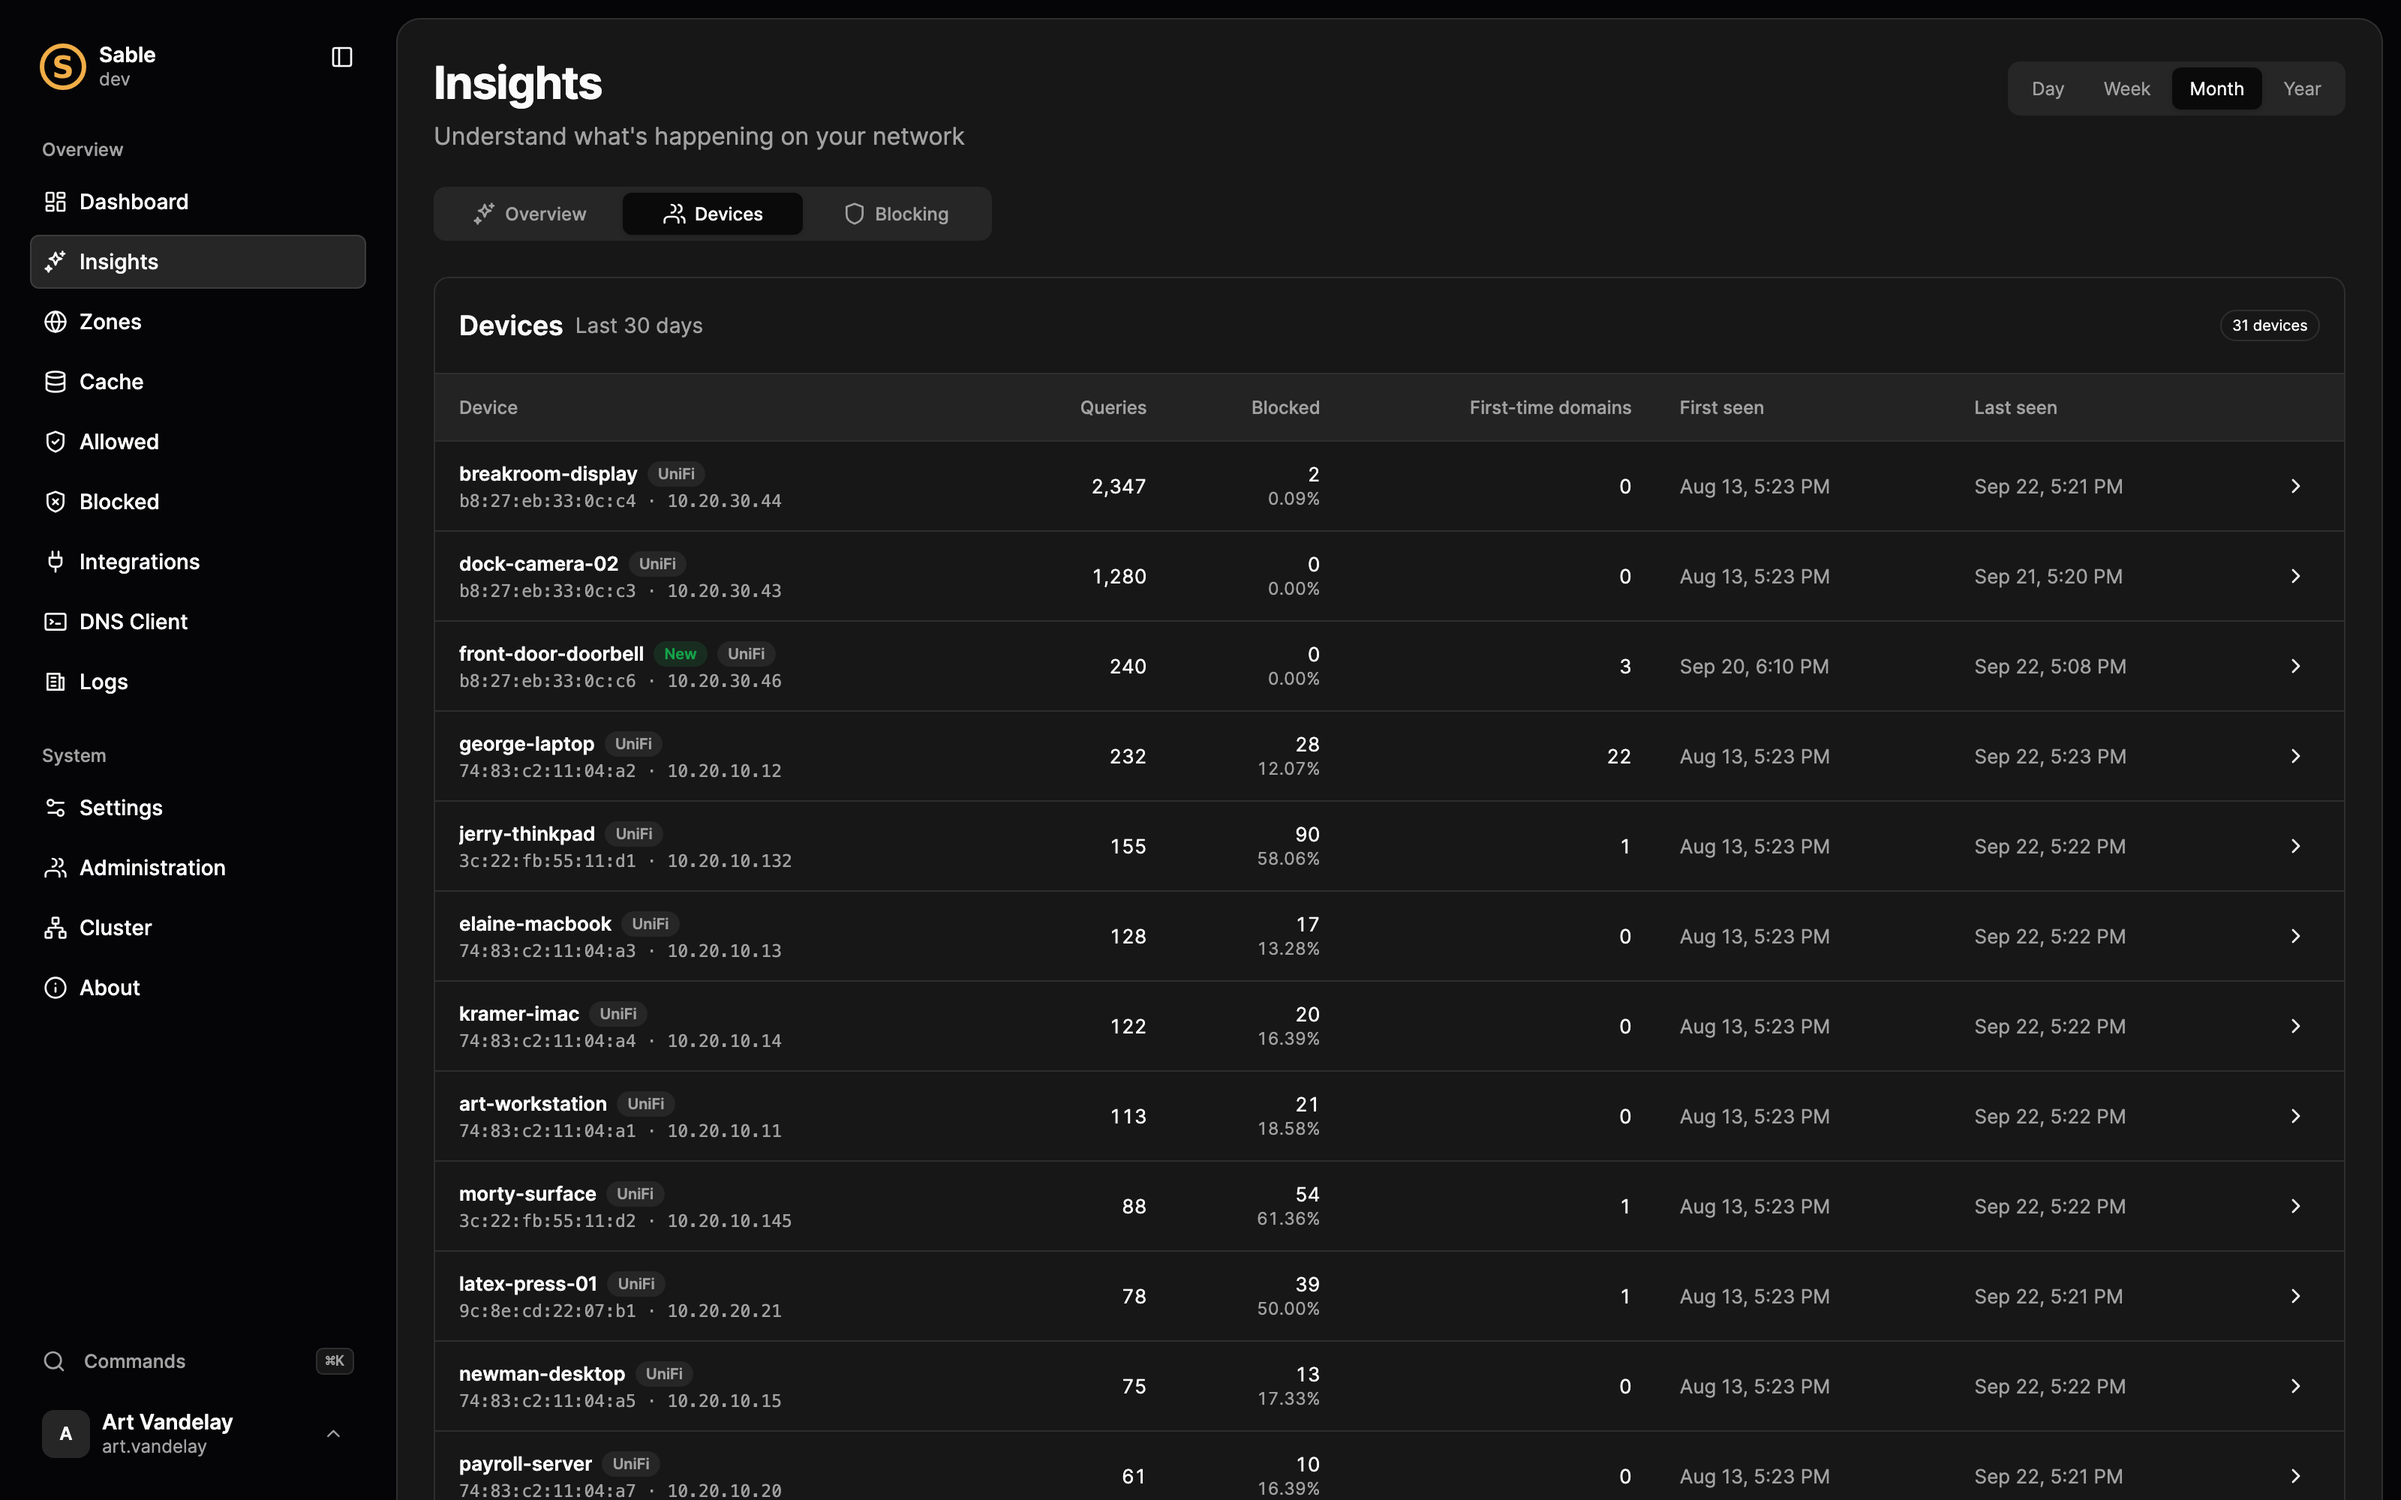
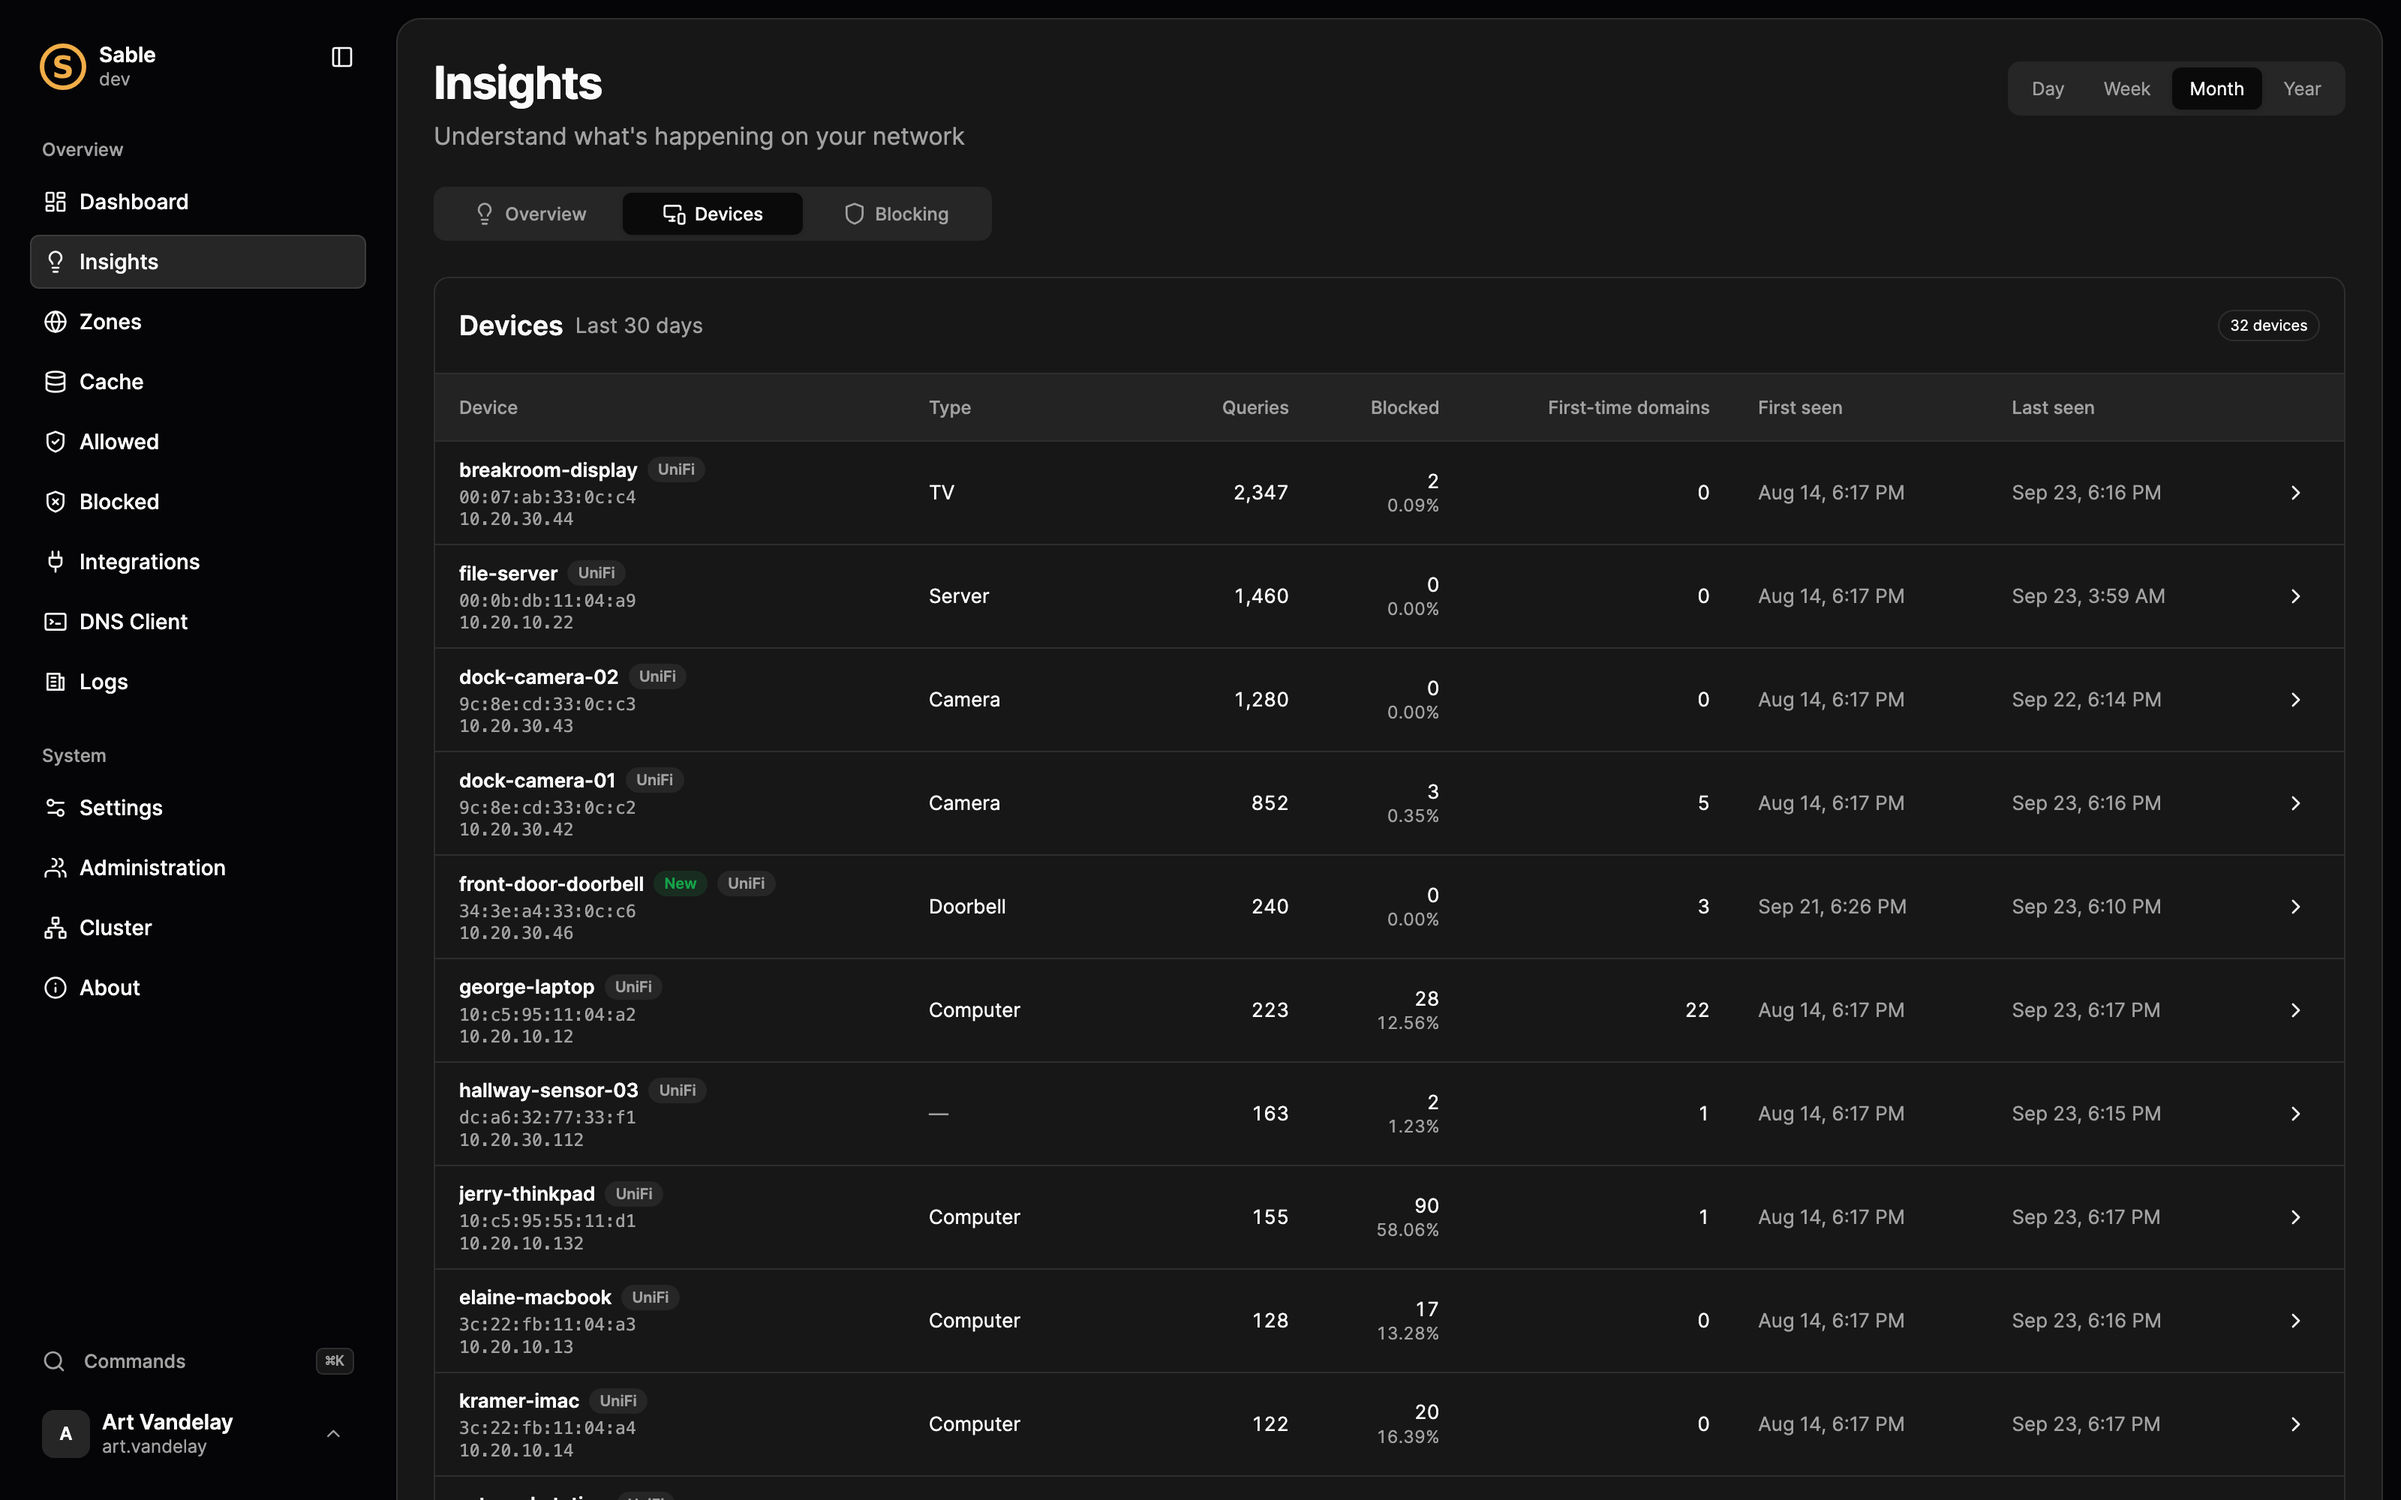
Document Insights and add 1.5.0-beta.1 release notes

diff --git a/docs/guides/insights.md b/docs/guides/insights.md
@@ -1,0 +1,78 @@
+# Understand your network with Insights
+
+Insights reads what Sable already records and tells you what changed, what each device is, and what is worth a look. Every finding shows the evidence behind it and links to the exact queries in the query log, so you never have to take Sable's word for it.
+
+Insights runs entirely on your server. It uses fixed rules and lookup tables, not machine learning or a cloud service, and none of it runs while Sable answers DNS.
+
+## Before you begin
+
+Insights needs query logging, which is on by default. Open **Insights** from the sidebar or the command palette. You need permission to read logs, blocking, or both; each section shows only what you may read.
+
+Right after an upgrade, Sable fills in device history from the query log it already keeps, so Insights knows which devices were already on the network from the first day.
+
+![Insights Overview with the summary sentence, device metrics, and findings](../assets/screenshots/insights.png "The Overview opens with one sentence about what stands out, then the findings behind it.")
+
+## The Overview
+
+The Overview opens with one sentence about what stands out, such as "dock-camera-02 went quiet, breakroom-display is 13× busier than usual, and file-server woke up at 3 AM." Below it are the numbers for the selected range and **Things Worth Your Attention**.
+
+Each finding opens a drawer with fact cards, **Why Sable surfaced this**, what it could mean, and **How Sable decides**. Use **View Query Logs** to see the exact queries it counted.
+
+Insights reports:
+
+- **New device on the network.** A device first seen during the range, while Sable was already watching.
+- **Went quiet** and **Unusually busy.** A device's last day compared with its own average over the week before.
+- **Active at an unusual hour.** A device with a steady daily routine that was busy at an hour it had not used in two weeks.
+- **Talking somewhere new.** An appliance, such as a camera, doorbell, or TV, that started calling services it never used. A laptop doing the same is ordinary and is not reported.
+- **Started using a new app.** A device that began using an app, such as Discord or Zoom, it had not used before.
+- **Checks in on a schedule.** A name only one device looks up, again and again, at a steady interval through the night. This is how a smart device's heartbeat looks, and also how software phoning home looks.
+- **Blocking findings.** Names that were blocked before you allowed them, block lists that stopped updating, and lists that add little of their own.
+
+**Top Apps** and **Busiest Devices** rank the whole network for the selected range.
+
+## Devices
+
+The **Devices** tab lists every device that sent queries in the range. Sable keeps a device's addresses together through the names you give it, UniFi, and the server's neighbor table, so a laptop's IPv4 and changing IPv6 addresses count as one device.
+
+![Insights Devices tab listing devices with their type and traffic](../assets/screenshots/insights-devices.png "Each device shows its name, hardware and IP address, and what Sable thinks it is.")
+
+Open a device to see its maker, apps, busiest domains, and first-time domains.
+
+### Name a device
+
+Use the pencil beside the device's name. A name follows the hardware address when Sable knows it, so it survives IP changes.
+
+### What a device is
+
+Sable names the maker from the device's hardware address and guesses its type from the maker, its name, and the services it talks to. **What it is** shows the guess, how sure Sable is (**Confident**, **Likely**, or **Unsure**), and the clues behind it.
+
+When a guess is wrong, use the pencil beside it and choose the right type. The first choice, marked **(detected)**, hands the decision back to Sable. Your correction is kept against the hardware address, like a name.
+
+Devices with a private, randomized hardware address have no maker, so their type rests on their name and the services they use.
+
+## Hide what you have seen
+
+Every finding's drawer ends with **Seen it?**:
+
+- **Dismiss** hides the finding for a day.
+- **Snooze a Week** hides it for a week.
+- **That's Normal** hides it until you show it again.
+
+Hiding applies to everyone who uses Insights. Hidden findings are listed under the findings card, where **Show Again** brings one back. You need permission to change settings to hide findings.
+
+## Get alerts
+
+Insights can send each new finding worth a look to a webhook. Open the **Alerts** card at the bottom of the Overview, enter the webhook URL, and choose a format:
+
+- **JSON** works with Slack, Discord, Home Assistant, and anything else that takes a JSON POST.
+- **Plain text** works with ntfy, which shows the finding's title and summary as a notification.
+
+Use **Send Test** to check the webhook. Each finding is sent once, and anything you hid is skipped. When you first set a webhook, Sable takes stock of what it already knows without sending it, so you are not flooded with old news. On a cluster, only the primary sends alerts.
+
+You can also set alerts in `sable.toml`; see [Devices and Insights](../configuration.md#devices-and-insights).
+
+## Blocking
+
+The **Blocking** tab shows blocked queries, the clients and domains behind them, and how much each block list contributes that no other list covers.
+
+![Insights Blocking tab with blocked query rankings and block list contribution](../assets/screenshots/insights-blocking.png "Compare what each list adds before removing one.")

diff --git a/CHANGELOG.md b/CHANGELOG.md
@@ -8,6 +8,68 @@ Create a passphrase-sealed application backup before upgrading and keep
 mixed-version cluster windows short. Cross-version restore and downgrade
 compatibility are not yet a published contract.
 
+## [1.5.0-beta.1] - 2026-09-23
+
+Sable 1.5.0-beta.1 introduces Insights: a local view of what changed on your
+network, what each device is, and what is worth a look. Every finding shows
+the evidence behind it and links to the exact queries it counted. Insights uses
+fixed rules and lookup tables on your own server, with no machine learning or
+cloud service, and none of it runs on the DNS request path.
+
+### Insights
+
+- Add an Insights page with Overview, Devices, and Blocking tabs, reachable
+  from the sidebar and the command palette with either logs or blocking read
+  permission.
+- Open the Overview with one sentence about what stands out, followed by
+  network metrics, the findings behind it, Top Apps, and Busiest Devices.
+- Explain every finding in a drawer with fact cards, the reasons Sable
+  surfaced it, what it could mean, and the rule that produced it, with copy
+  buttons for addresses and names and a link to the matching query log rows.
+- Report new devices, devices that went quiet or became unusually busy,
+  devices active at an hour they never use, appliances such as cameras and
+  doorbells that start calling new services, devices that start using a new
+  app, and names only one device looks up on a steady schedule.
+- Fill device history from the existing query log after upgrading, so
+  Insights knows which devices were already on the network from the first day.
+- Let operators dismiss a finding for a day, snooze it for a week, or mark it
+  normal, with hidden findings listed and restorable. Feedback is kept by the
+  device's hardware address, so it survives renames.
+- Send each new finding worth a look to an optional webhook, once, in JSON
+  for Slack, Discord, and Home Assistant or plain text for ntfy. A new webhook
+  takes stock quietly instead of receiving old news, only the primary node
+  sends, and the webhook URL is never stored in the database.
+
+### Devices
+
+- Group client addresses into devices by hardware address using UniFi, the
+  server's neighbor table on Linux and macOS, and names you give, so a
+  device's IPv4 and changing IPv6 addresses count as one.
+- Name devices from your own names, UniFi, local host entries, and reverse
+  DNS, with a badge showing where each name came from, and rename a device
+  from its drawer.
+- Name each device's maker from the IEEE registry built into Sable, and guess
+  its type from the maker, its name, and the services it talks to, with a
+  confidence level and the clues behind it. Correct a wrong guess from the
+  device drawer; the correction follows the hardware address.
+- Name the apps behind domains from a built-in catalog, and list each
+  device's apps, busiest domains, and first-time domains.
+
+### Blocking
+
+- Record which block list supplied the rule behind every blocked query and
+  show it in the query explanation.
+- Compare enabled block lists by the domains only they cover, their largest
+  overlap, and the blocked queries each one accounted for alone.
+- Find names that were blocked before an operator allowed them, and block
+  lists that stopped updating or could not be read.
+
+### Configuration
+
+- Add `type` to `[[clients]]` entries, and allow an entry to set a name, a
+  type, or both.
+- Add `[insights.webhook]` with `url` and `format` for Insights alerts.
+
 ## [1.4.0] - 2026-09-18
 
 Sable 1.4.0 gives the console a more deliberate visual hierarchy across desktop

diff --git a/README.md b/README.md
@@ -89,6 +89,11 @@ without shipping a Node.js runtime or a separate frontend bundle.
 - UniFi synchronization with guided setup, per-network zone mapping, and
   integration-owned A, AAAA, and IPv4/IPv6 PTR records that do not disturb
   hand-authored data
+- Insights: evidence-backed findings about what changed on the network,
+  device grouping by hardware address with maker and type detection, app
+  naming, per-device routines, scheduled check-in detection, block list
+  contribution, operator feedback, and webhook alerts, all computed locally
+  and off the DNS request path
 
 Replicas continue serving DNS when the primary is
 unavailable, but control-plane writes require manual promotion; Sable does not
